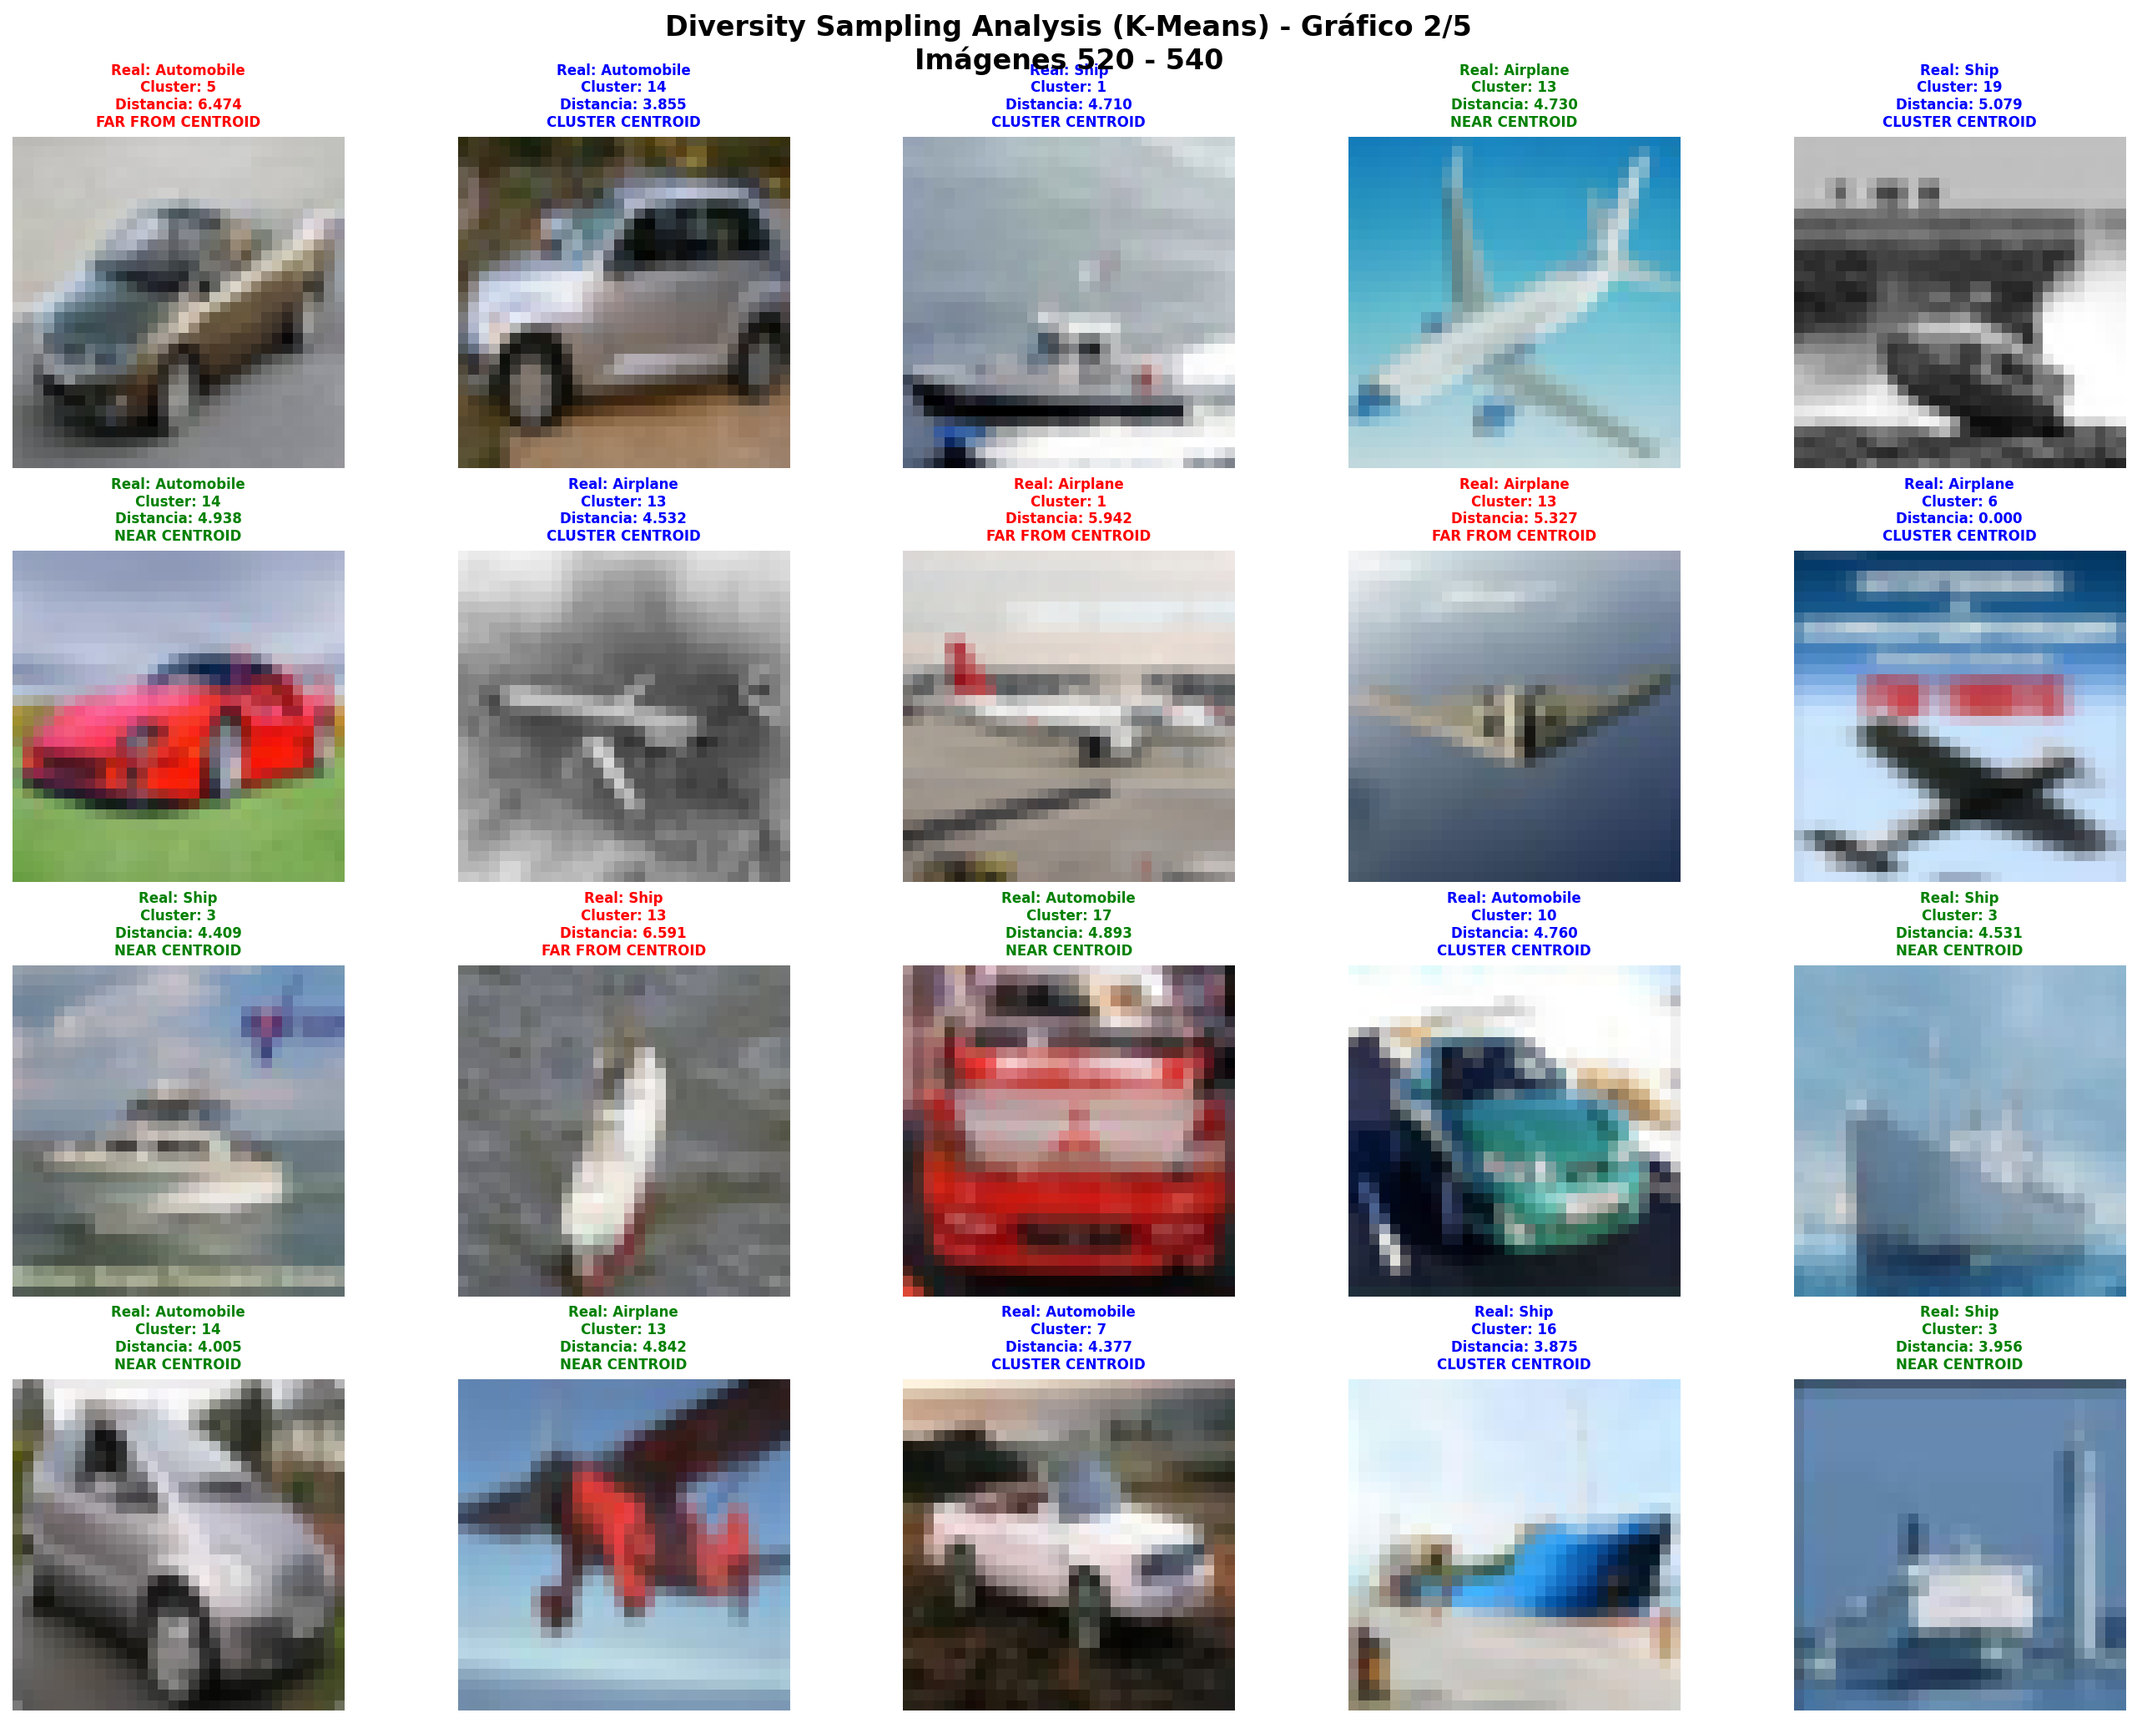
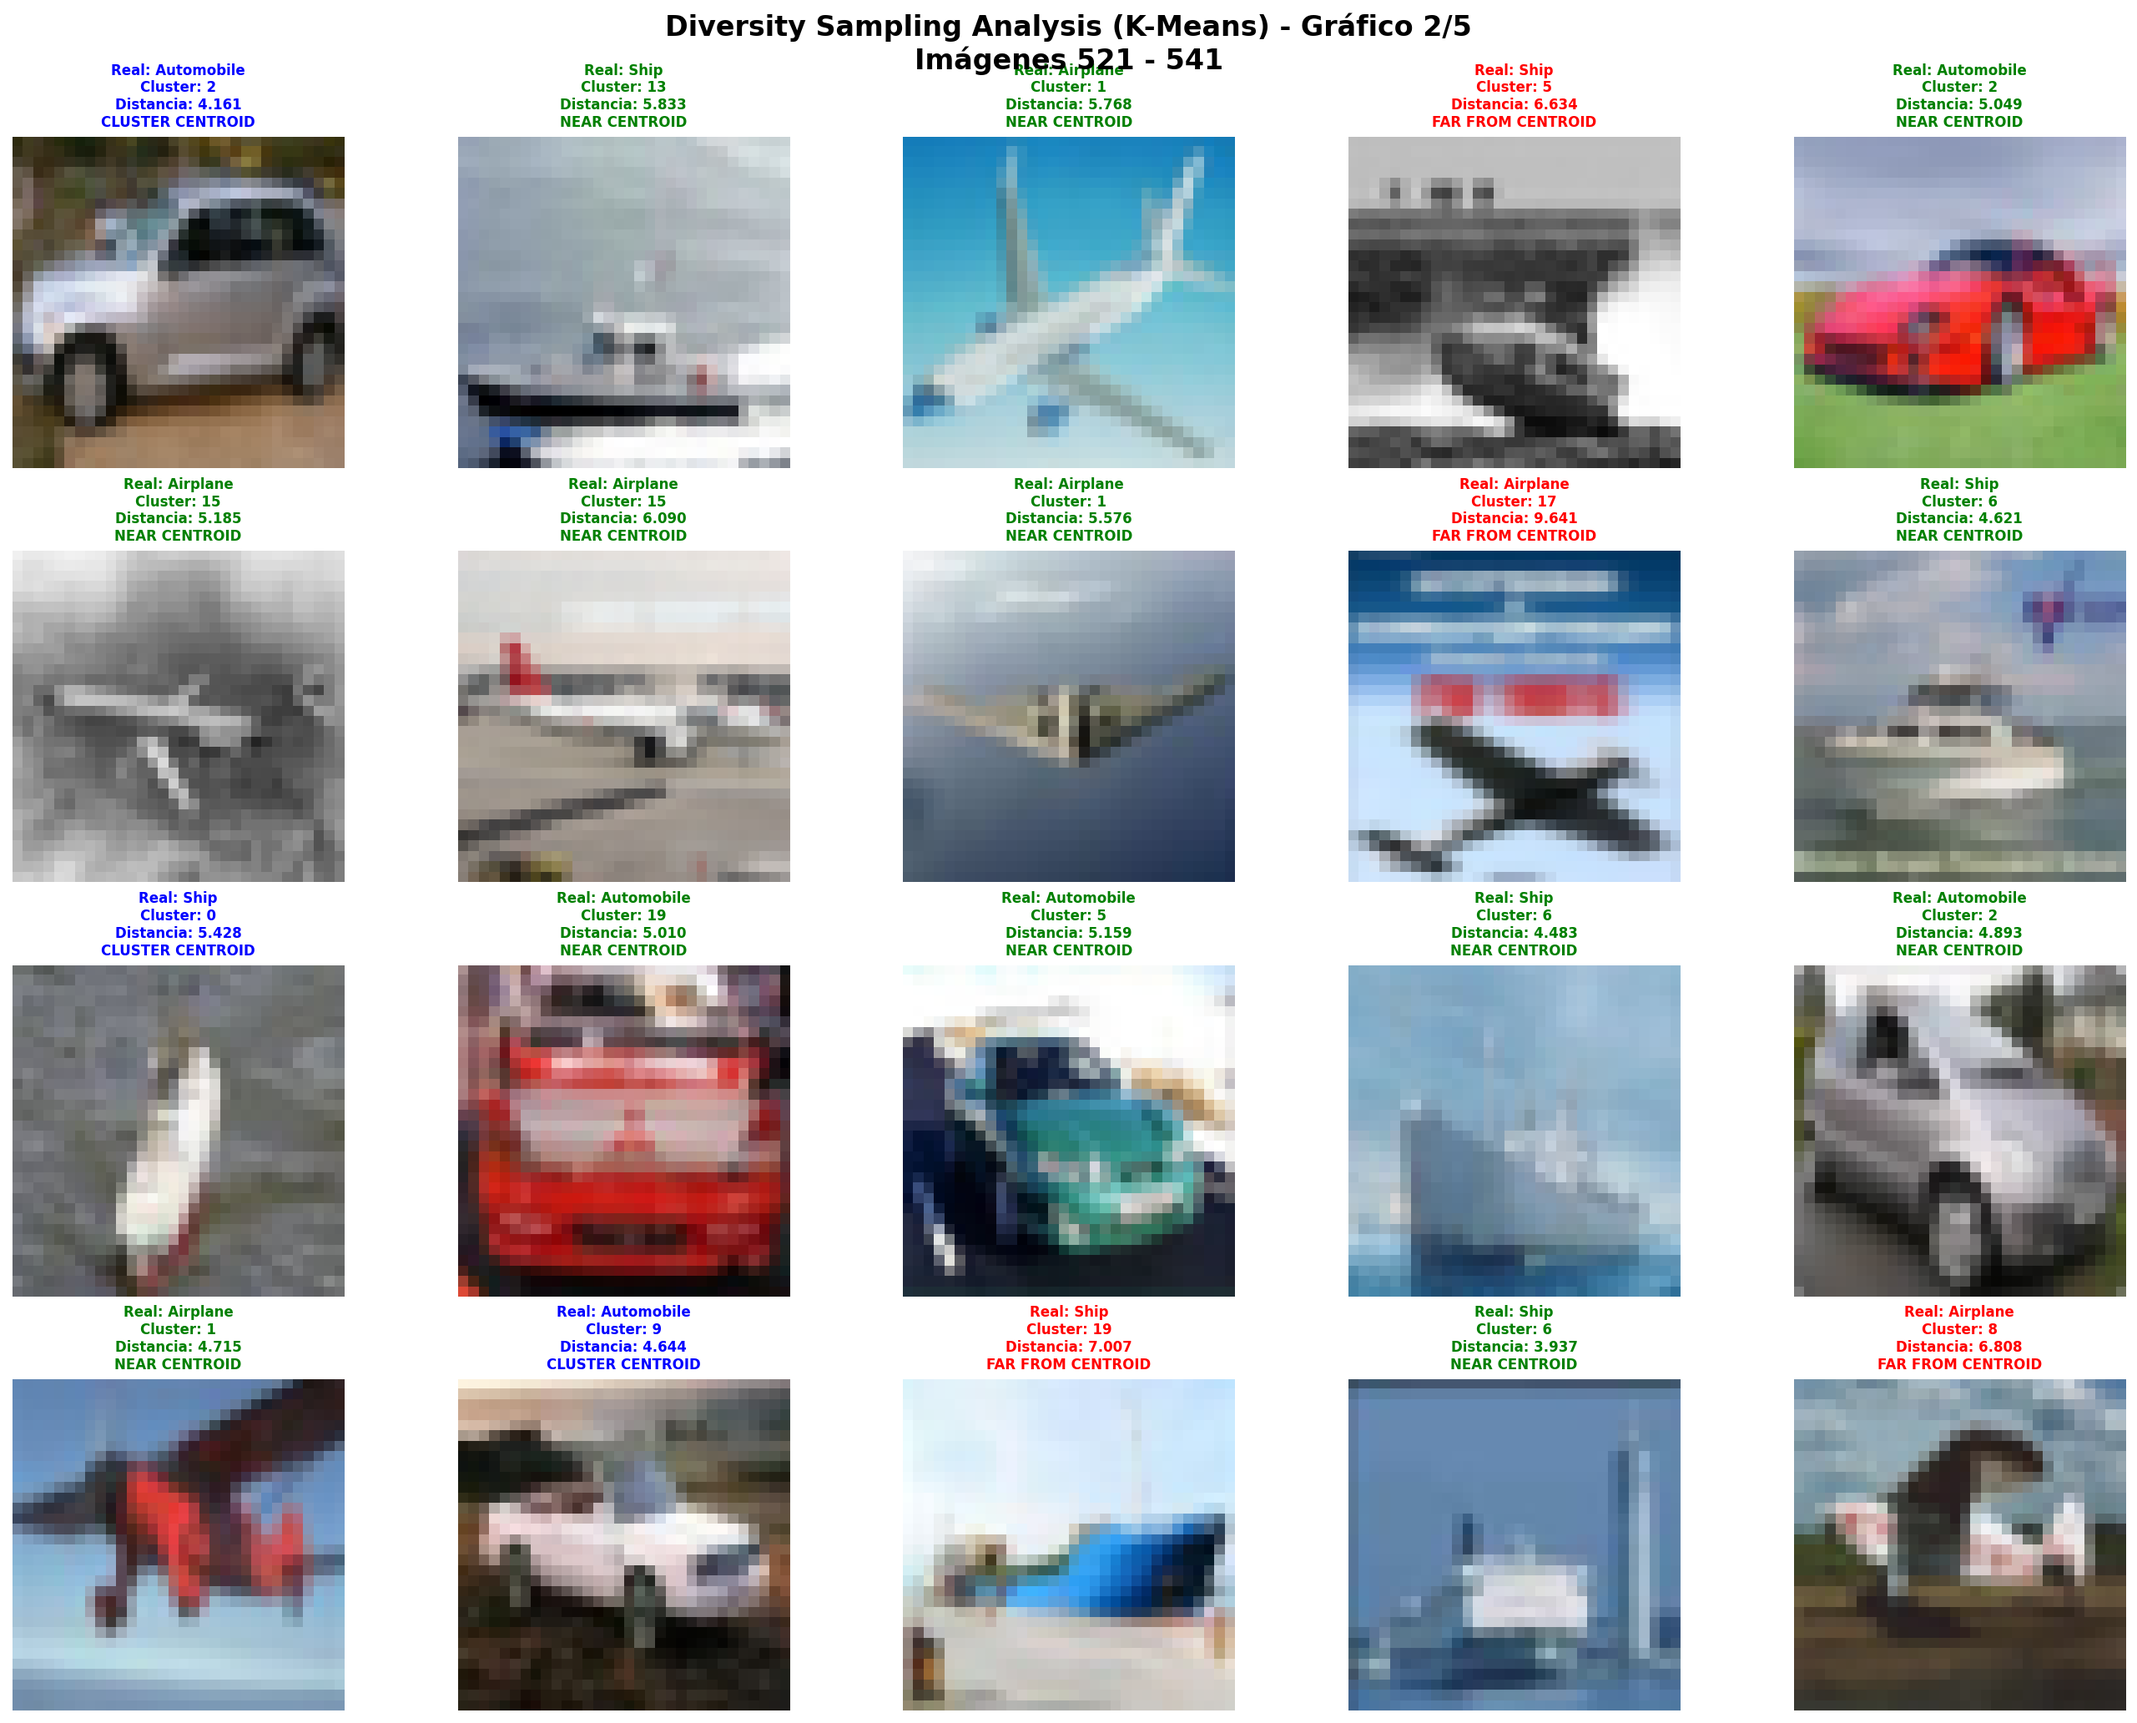
updt

diff --git a/Evaluation/Novelty/novelty.py b/Evaluation/Novelty/novelty.py
@@ -23,8 +23,8 @@ SELECTED_CLASSES = [0, 1, 8]  # airplane, automobile, ship
 CLASS_NAMES = ['Airplane', 'Automobile', 'Ship']
 
 LABELED_SIZE = 500  # Primeras 500 para entrenar
-START_INDEX = 500   # Empezar análisis desde 501
-END_INDEX = 600     # Hasta 600 (100 imágenes)
+START_INDEX = 501   # Empezar análisis desde 501
+END_INDEX = 1000     # Hasta 600 (100 imágenes)
 
 K_NEIGHBORS = 5     # Número de vecinos más cercanos para KNN
 
@@ -202,7 +202,7 @@ def print_statistics(novelty_scores, labels, k):
         total = (labels == class_id).sum()
         print(f"  {class_name:12s}: {count:2d}/{total:2d} ({count/total*100:.1f}%)")
     
-    print(f"\nTotal imágenes NOVEDOSAS: {is_novel.sum()}/100 ({is_novel.sum()}%)")
+    print(f"\nTotal imágenes NOVEDOSAS: {is_novel.sum()}/{END_INDEX-START_INDEX} ({is_novel.sum() / (END_INDEX-START_INDEX) * 100:.1f}%)")
     print(f"Umbral usado: {threshold:.3f} (percentil 75)")
     
     print()

diff --git a/Evaluation/Diversity/diversity.py b/Evaluation/Diversity/diversity.py
@@ -25,8 +25,8 @@ SELECTED_CLASSES = [0, 1, 8]  # airplane, automobile, ship
 CLASS_NAMES = ['Airplane', 'Automobile', 'Ship']
 
 LABELED_SIZE = 500  # Primeras 500 para entrenar
-START_INDEX = 500   # Empezar análisis desde 501
-END_INDEX = 600     # Hasta 600 (100 imágenes)
+START_INDEX = 501   # Empezar análisis desde 501
+END_INDEX = 1000     # Hasta 600 (100 imágenes)
 
 N_CLUSTERS = 20     # Número de clusters para K-Means
 
@@ -241,7 +241,7 @@ def print_statistics(selected_indices, cluster_labels, distances, labels):
         total = (labels == class_id).sum()
         print(f"  {class_name:12s}: {count:2d}/{total:2d} ({count/total*100:.1f}%)")
     
-    print(f"\nTotal imágenes LEJANAS: {is_far.sum()}/100 ({is_far.sum()}%)")
+    print(f"\nTotal imágenes LEJANAS: {is_far.sum()}/{END_INDEX-START_INDEX} ({is_far.sum() / (END_INDEX-START_INDEX) * 100:.1f}%)")
     print(f"Umbral usado: {threshold:.3f} (percentil 75)")
 
 

diff --git a/Evaluation/Uncertainty/uncertainty.py b/Evaluation/Uncertainty/uncertainty.py
@@ -18,8 +18,8 @@ SELECTED_CLASSES = [0, 1, 8]  # airplane, automobile, ship
 CLASS_NAMES = ['Airplane', 'Automobile', 'Ship']
 
 LABELED_SIZE = 500  # Primeras 500 para entrenar
-START_INDEX = 500   # Empezar análisis desde 501
-END_INDEX = 600     # Hasta 600 (100 imágenes)
+START_INDEX = 501   # Empezar análisis desde 501
+END_INDEX = 1000     # Hasta 600 (100 imágenes)
 
 MODEL_PATH = '../../models/500_train/best_model.keras'  # o 'models/final_model.keras'
 
@@ -267,9 +267,6 @@ def main():
     print()
     print(" Análisis completado!")
     print(f" Gráficos guardados en: results/uncertainty_analysis_*.png")
-    print()
-    print(" = Alta incertidumbre (top 50%)")
-    print(" = Baja incertidumbre")
 
     # Guardar índices de alta incertidumbre
     np.save('results/uncertainty_indices.npy', np.where(is_high_entropy | is_high_margin)[0])

diff --git a/Evaluation/Image_slec/Image_selection.py b/Evaluation/Image_slec/Image_selection.py
@@ -19,8 +19,8 @@ sys.path.insert(0, '..')
 
 SELECTED_CLASSES = [0, 1, 8]
 CLASS_NAMES = ['Airplane', 'Automobile', 'Ship']
-START_INDEX = 500
-END_INDEX = 600
+START_INDEX = 501
+END_INDEX = 1000
 
 MODEL_PATH = '/models/500_train/best_model.keras'
 
